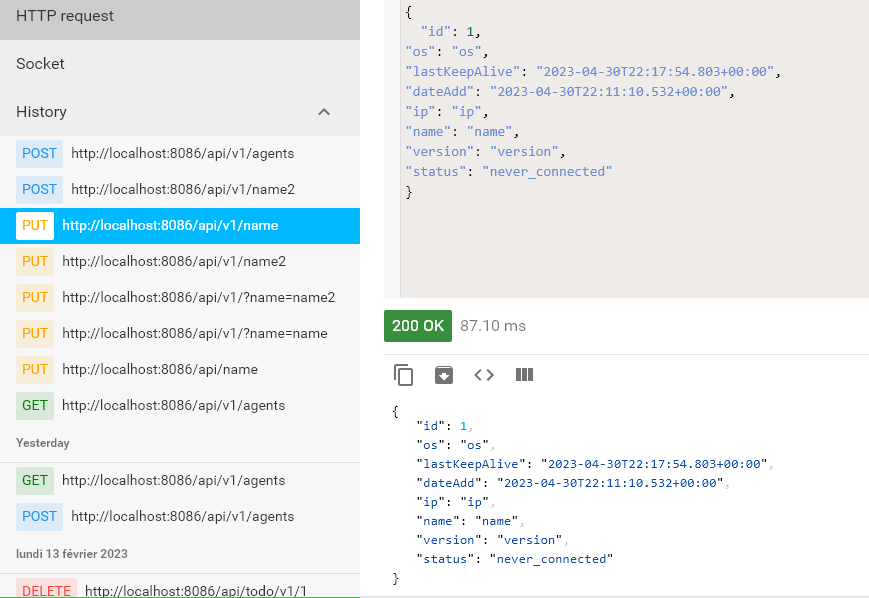
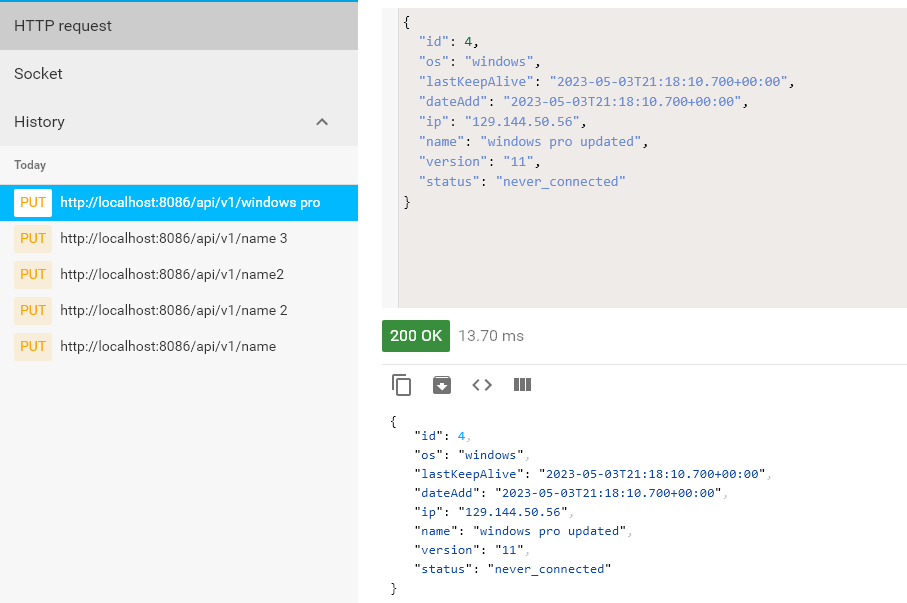
[AGENTS BE][UPDATE DEFECT] fix defect on update http method

diff --git a/agents-service/src/main/java/com/belkacem/agentsservice/service/AgentServiceImp.java b/agents-service/src/main/java/com/belkacem/agentsservice/service/AgentServiceImp.java
@@ -30,7 +30,7 @@ public class AgentServiceImp implements AgentService{
     @Override
     public Agent addAgent(AgentRequestDTO agentRequestDTO) {
         log.info("Service: Save Agent {} ", agentRequestDTO);
-        Agent agent = new Agent();
+        Agent agent;
 
         Agent agentByName = agentRepository.findByName(agentRequestDTO.getName());
 
@@ -62,9 +62,9 @@ public class AgentServiceImp implements AgentService{
     @Override
     public Agent updateAgent(AgentDTO agentDTO, String name) {
         log.info("Service: Update Agent {} ", agentDTO);
-        Agent agent = new Agent();
+        Agent agent;
 
-        Agent agentByName = agentRepository.findByName(agentDTO.getName());
+        Agent agentByName = agentRepository.findByName(name);
 
         if (agentByName != null) {
             agent = agentMapper.agentDTOToAgent(agentDTO);
